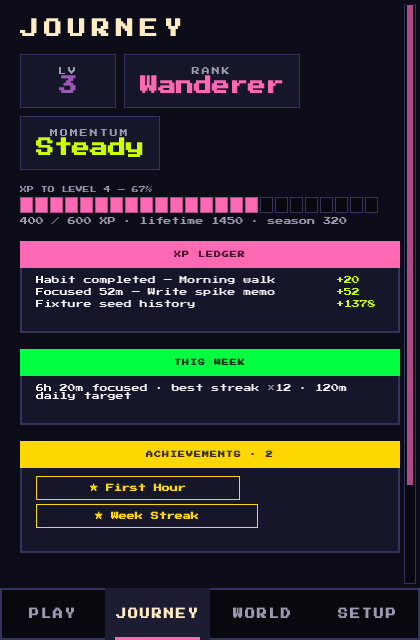
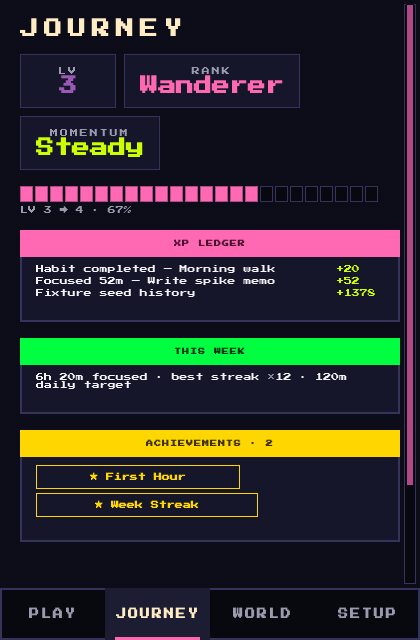
fix(#93): uniform segmented bar + terse XP meta (live pass polish)
Two perfectionist findings from Mohamed's live pass:

- SegmentedBar rendered ragged (= - look): block width was hardcoded at
  13px regardless of assigned width, so segments didn't divide the row
  evenly. Blocks now derive width from the bar's real width with fixed
  2px gaps and integer floor — identical segments filling edge-to-edge
  at any panel size.
- JOURNEY XP meta trimmed to one compact line (LV n → n+1 · NN%).
  The lifetime/season breakdown moves behind a click/hover detail
  affordance in the V4 slice — recorded on da5ater/dailyxp#96 so it
  survives into that ticket.

Evidence refreshed. Tests 156/156.

diff --git a/arcade/screens/JourneyScreen.qml b/arcade/screens/JourneyScreen.qml
@@ -23,32 +23,26 @@ ArcadeScreen {
     }
 
     // ── XP to next level (real rule) ───────────────────────────
+    // Deliberately terse (Mohamed, live pass 2026-08-24): one compact line;
+    // the lifetime/season breakdown moves behind click/hover detail in a
+    // later PR (noted on the V4 ticket).
     Column {
         width: parent.width
         spacing: 4
 
-        Text {
-            width: parent.width
-            text: "XP TO LEVEL " + (root.fixture.progression.level + 1) + " — "
-                  + Math.round(100 * root.lvl.have / Math.max(1, root.lvl.need)) + "%"
-            color: Theme.textMuted
-            font.family: Theme.fontFamily
-            font.pixelSize: Theme.typeTiny
-            elide: Text.ElideRight
-        }
         SegmentedBar {
             width: parent.width - Theme.space(2)
             fraction: root.lvl.need > 0 ? Math.max(0, Math.min(1, root.lvl.have / root.lvl.need)) : 0
         }
         Text {
             width: parent.width
-            text: root.lvl.have + " / " + root.lvl.need + " XP · lifetime "
-                  + root.fixture.progression.totals.lifetimeXp + " · season "
-                  + root.fixture.progression.totals.seasonXp
+            text: "LV " + root.fixture.progression.level + " → "
+                  + (root.fixture.progression.level + 1) + " · "
+                  + Math.round(100 * root.lvl.have / Math.max(1, root.lvl.need)) + "%"
             color: Theme.textMuted
             font.family: Theme.fontFamily
             font.pixelSize: Theme.typeBody
-            wrapMode: Text.WordWrap
+            elide: Text.ElideRight
         }
     }
 

diff --git a/arcade/SegmentedBar.qml b/arcade/SegmentedBar.qml
@@ -1,7 +1,10 @@
 import QtQuick
 
 // Arcade primitive: discrete-block progress bar (K2).
-// No smooth fills — vertical blocks with 2px gaps, spike-proven 8-bit read.
+// No smooth fills — uniform segments with even gaps, spike-proven 8-bit read.
+// Block width derives from the ASSIGNED width (not a hardcoded px value), so
+// every segment is identical and the row fills edge-to-edge at any panel size
+// (live-testing finding #24/#93: fixed-width blocks rendered raggedly).
 Rectangle {
     id: root
 
@@ -12,17 +15,23 @@ Rectangle {
     property color empty: Theme.surfaceLowest
     property color emptyBorder: Theme.border
 
+    readonly property int gap: 2
+    // floor keeps integer pixel widths — no sub-pixel fuzz under software
+    // rendering; the leftover (<blocks px) stays transparent at the right edge
+    readonly property int blockWidth: Math.max(1,
+        Math.floor((width - (blocks - 1) * gap) / blocks))
+
     implicitWidth: blocks * 15 - 2
     implicitHeight: 16
     color: "transparent"
 
     Row {
-        spacing: 2
+        spacing: root.gap
         Repeater {
             model: root.blocks
             delegate: Rectangle {
                 required property int index
-                width: 13
+                width: root.blockWidth
                 height: root.height
                 color: index < Math.round(root.fraction * root.blocks) ? root.fill : root.empty
                 border.color: index < Math.round(root.fraction * root.blocks) ? root.fillBorder : root.emptyBorder
